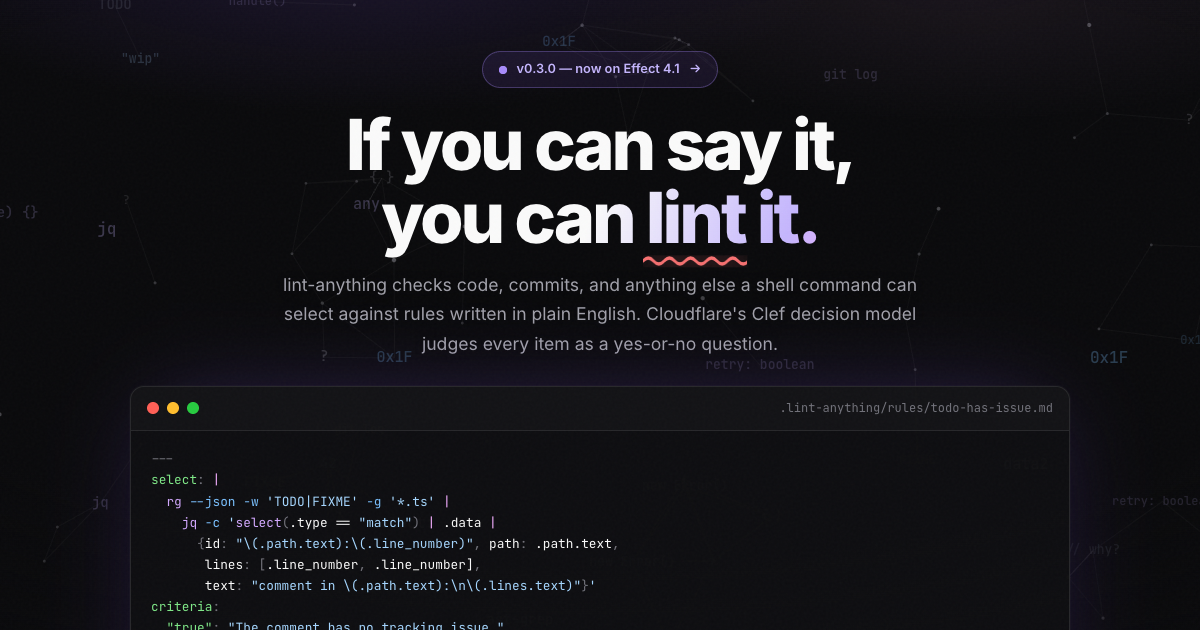
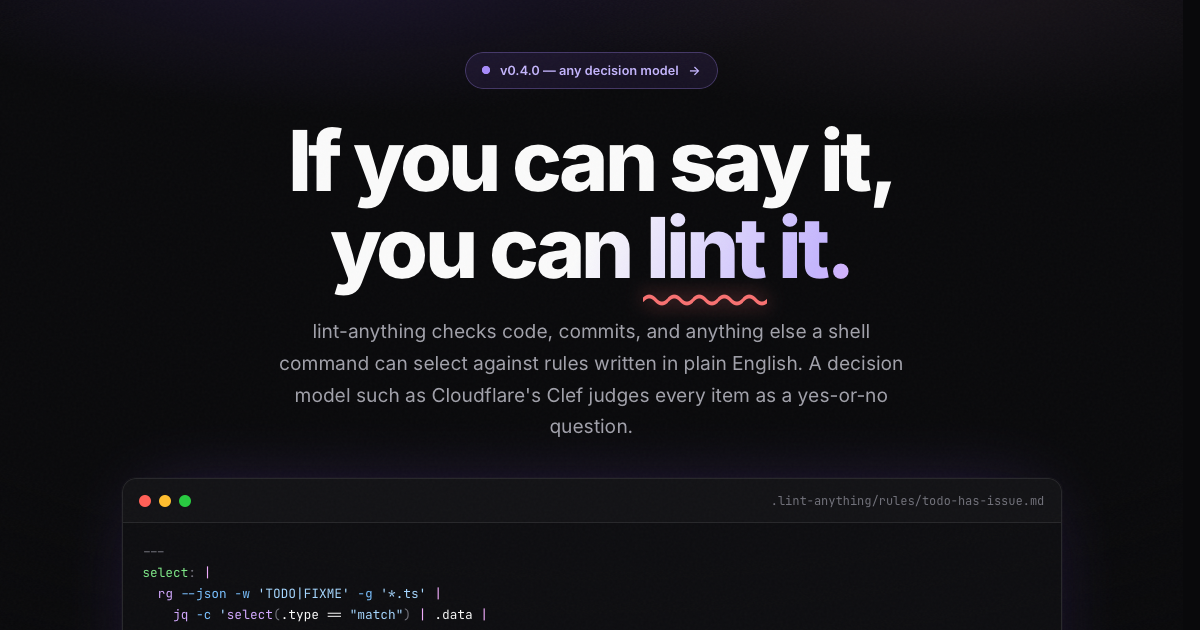
Landing page: badge and preview image for 0.4.0

diff --git a/site/index.html b/site/index.html
@@ -109,7 +109,7 @@
         <div class="hero-content">
           <a class="hero-badge" href="#start">
             <span class="pulse-dot" aria-hidden="true"></span>
-            v0.3.0 — now on Effect 4.1
+            v0.4.0 — any decision model
             <span aria-hidden="true">→</span>
           </a>
           <h1 class="hero-title">
@@ -118,8 +118,7 @@
           <p class="hero-description">
             lint-anything checks code, commits, and anything else a shell command
             can select against rules written in plain English. A decision model
-            judges every item as a yes-or-no question: Cloudflare's Clef by
-            default, or any model behind a System One or OpenAI Decisions endpoint.
+            such as Cloudflare's Clef judges every item as a yes-or-no question.
           </p>
           <div class="hero-actions">
             <a href="#start" class="btn btn-primary">
